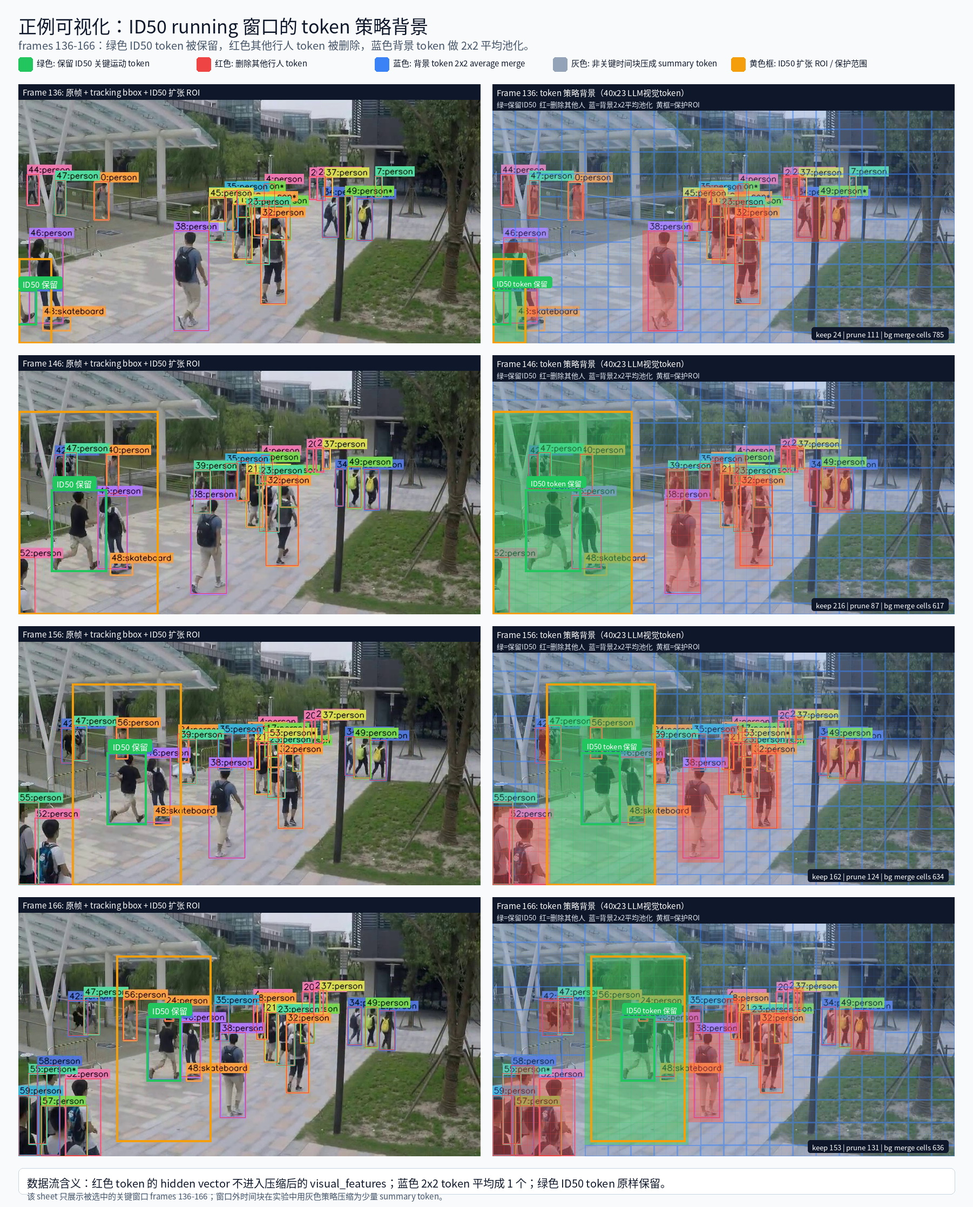
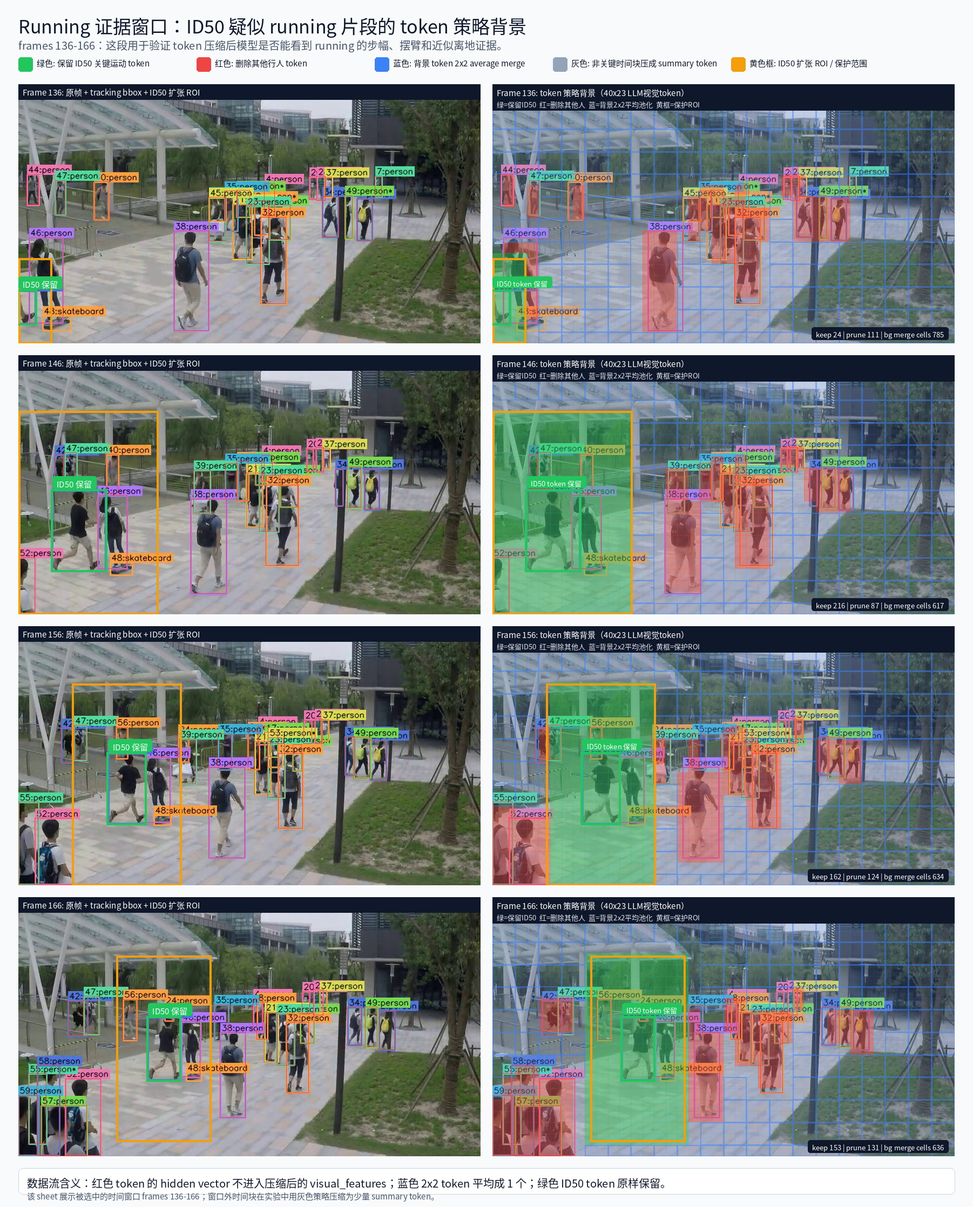
Clarify evidence and control windows

Changed region(s): [[0.0311, 0.0, 0.5283, 0.0617], [0.0622, 0.9875, 0.4661, 1.0]]

diff --git a/REPORT_CN.md b/REPORT_CN.md
@@ -13,9 +13,14 @@
 | 完整视频 baseline | `11960 -> 11960` | `walking` | 不压缩时，多对象和长时间上下文稀释 ID50 的 running 证据。 |
 | 仅空间 ROI 压缩 | `11960 -> 3178` | `walking` | 只压其他人和背景还不够，后续 walking 时间片仍会影响判断。 |
 | 运动聚焦 token 压缩 | `11960 -> 353` | `running` | 保留 frames `136-166` 的 ID50 关键运动 token，压缩非关键 token。 |
-| 慢速窗口负对照 | `11960 -> 497` | `walking` | 聚焦 frames `220-260` 时仍为 walking，说明 running 不是压缩伪影。 |
+| 慢速对照窗口 | `11960 -> 497` | `walking` | 聚焦 frames `220-260` 时仍为 walking，说明 running 不是压缩伪影。 |
 
-**可以证明的 case-level 结论：** 在该视频案例中，同一 Qwen3-VL、同一完整视频、同一 720p 输入下，baseline 输出 `walking`；经过目标感知 + 运动感知 token 压缩后输出 `running`；慢速窗口负对照仍输出 `walking`。
+**这里的“running 证据窗口”和“慢速对照窗口”是什么意思：**
+
+- **running 证据窗口**指 frames `136-166`。这是同一视频、同一 tracking ID `50` 中最像 running/jogging 的片段，用来验证 token 压缩后模型能否看见步幅、摆臂和近似离地等 running 证据。
+- **慢速对照窗口**指 frames `220-260`。它仍然来自同一视频、同一 ID50，并使用同样的 token 压缩策略；区别只是这段运动更平稳、更像 walking。它的作用是排除“只要压缩就会让模型说 running”的可能性。
+
+**可以证明的 case-level 结论：** 在该视频案例中，同一 Qwen3-VL、同一完整视频、同一 720p 输入下，baseline 输出 `walking`；经过目标感知 + 运动感知 token 压缩后输出 `running`；慢速对照窗口仍输出 `walking`。
 
 **不能过度声称：** 这不是大规模 benchmark，不能直接证明所有视频有效，也不能证明已经超过 VAD SOTA。
 
@@ -53,9 +58,9 @@ visual tokens: 13 * 23 * 40 = 11960
 2. **快速位移**：ID50 在 frames `136-166` 中相对自身人体尺度发生明显位移。
 3. **明显摆臂**：上肢摆动幅度更大，和快速步态同步。
 4. **离地或近似离地**：部分帧出现跑步/小跑常见的脚步支撑不稳定或近似离地姿态。
-5. **与慢速窗口对比**：frames `220-260` 中 ID50 更平稳、步幅更小、缺少明显摆臂和离地证据，因此作为 walking 负对照。
+5. **与慢速窗口对比**：frames `220-260` 中 ID50 更平稳、步幅更小、缺少明显摆臂和离地证据，因此作为慢速对照窗口。
 
-**判断依据不是 confidence 数字。** 本报告不把模型自报告 confidence 当作实验指标；核心依据是关键帧段中的步态证据，以及与慢速负对照段的差异。
+**判断依据不是 confidence 数字。** 本报告不把模型自报告 confidence 当作实验指标；核心依据是关键帧段中的步态证据，以及与慢速对照窗口的差异。
 
 ## 5. “目标感知 + 运动感知”如何做
 
@@ -86,12 +91,12 @@ ID50 token       -> 保留
 2. 删除该窗口中的其他行人 token。
 3. 背景 token 做 2x2 average merge。
 4. 非关键时间块压缩为少量 summary token，减少 walking 片段稀释。
-5. 使用 frames `220-260` 作为慢速负对照窗口。
+5. 使用 frames `220-260` 作为慢速对照窗口。
 
 ```text
 关键运动时间窗 136-166  -> 保留 ID50 细节
 非关键时间块            -> 强压缩为 summary token
-慢速对照窗口 220-260     -> 验证不是压缩伪影
+慢速对照窗口 220-260     -> 验证 running 不是压缩伪影
 ```
 
 ### 5.3 合并后的实际策略
@@ -160,7 +165,7 @@ new_feature_j = mean(original_features[group_j])
 3. 重新对齐或重建 `position_ids`，保证 LLM 接收到的是长度更短但位置一致的视觉序列；
 4. 文本 prompt 不变，变化的是送入 LLM 的视觉 token 序列。
 
-最终该正例设置中，视觉 token 从 `11960` 压到 `353`，输入 token 从 `12156` 压到 `549`。这会显著提高 ID50 关键运动 token 在视觉序列中的比例，使模型更容易基于步幅、摆臂和近似离地姿态判断 `running`。
+最终在 running 证据窗口设置中，视觉 token 从 `11960` 压到 `353`，输入 token 从 `12156` 压到 `549`。这会显著提高 ID50 关键运动 token 在视觉序列中的比例，使模型更容易基于步幅、摆臂和近似离地姿态判断 `running`。
 
 ## 7. 实验结果
 
@@ -169,37 +174,37 @@ new_feature_j = mean(original_features[group_j])
 | 完整视频 baseline，不压缩 | `11960 -> 11960` | `12156 -> 12156` | `walking` | 模型没有稳定捕捉快速步幅、强摆臂和离地证据。 |
 | 仅空间 ROI-aware 压缩 | `11960 -> 3178` | `12156 -> 3374` | `walking` | 目标空间区域保留，但完整时间轴中的 walking 片段仍稀释判断。 |
 | 运动聚焦压缩，frames `136-166` | `11960 -> 353` | `12156 -> 549` | `running` | 关键窗口中可见快速步幅、明显摆臂和离地/近似离地姿态。 |
-| 负对照，frames `220-260` | `11960 -> 497` | `12156 -> 693` | `walking` | 后段步态平稳，缺少 running 所需的快速步幅和离地证据。 |
+| 慢速对照窗口，frames `220-260` | `11960 -> 497` | `12156 -> 693` | `walking` | 后段步态平稳，缺少 running 所需的快速步幅和离地证据。 |
 
-## 8. 正例可视化：frames 136-166
+## 8. Running 证据窗口可视化：frames 136-166
 
 下图左侧是原始 tracking 可视化，右侧是在同一帧上叠加的 token 策略背景。右侧每个彩色小格对应一个 40x23 LLM 视觉 token cell：绿色表示 ID50 token 保留；红色表示其他行人 token 删除；蓝色表示背景 token 进入 2x2 average merge；黄色框表示 ID50 扩张 ROI。该窗口中 ID50 呈现更强步幅、更明显摆臂和近似离地姿态。
 
-![正例可视化：保留 frames 136-166 的 ID50 关键运动 token。](assets/id50_running_focus_sheet.jpg)
+![Running 证据窗口可视化：保留 frames 136-166 的 ID50 关键运动 token。](assets/id50_running_focus_sheet.jpg)
 
-*正例可视化：保留 frames 136-166 的 ID50 关键运动 token。*
+*Running 证据窗口可视化：保留 frames 136-166 的 ID50 关键运动 token。*
 
 <video controls preload="metadata" src="assets/id50_running_focus_overlay.mp4"></video>
 
-*正例 overlay 视频：frames 136-166，运动聚焦 token 压缩后模型输出 running。*
+*Running 证据窗口 overlay 视频：frames 136-166，运动聚焦 token 压缩后模型输出 running。*
 
-## 9. 负对照可视化：frames 220-260
+## 9. 慢速对照窗口可视化：frames 220-260
 
-负对照图使用同样的 token 策略背景画法：绿色仍然保留 ID50 token，红色仍然删除其他行人 token，蓝色仍然对背景 token 做 2x2 average merge。区别只在于聚焦窗口换成 frames `220-260` 的慢速片段。模型仍输出 `walking`，说明 `running` 不是强压缩本身诱导出来的，而是 frames `136-166` 关键运动窗口中的视觉证据导致的。
+慢速对照窗口使用同样的 token 策略背景画法：绿色仍然保留 ID50 token，红色仍然删除其他行人 token，蓝色仍然对背景 token 做 2x2 average merge。区别只在于聚焦窗口换成 frames `220-260` 的慢速片段。模型仍输出 `walking`，说明 `running` 不是强压缩本身诱导出来的，而是 frames `136-166` 关键运动窗口中的视觉证据导致的。
 
-![负对照可视化：frames 220-260，步态更平稳，输出 walking。](assets/id50_walking_negative_control_sheet.jpg)
+![慢速对照窗口可视化：frames 220-260，步态更平稳，输出 walking。](assets/id50_walking_negative_control_sheet.jpg)
 
-*负对照可视化：frames 220-260，步态更平稳，输出 walking。*
+*慢速对照窗口可视化：frames 220-260，步态更平稳，输出 walking。*
 
 <video controls preload="metadata" src="assets/id50_walking_negative_control_overlay.mp4"></video>
 
-*负对照 overlay 视频：frames 220-260，同样机制下仍输出 walking。*
+*慢速对照窗口 overlay 视频：frames 220-260，同样机制下仍输出 walking。*
 
 ## 10. 时间线可视化
 
-![时间线图：绿色为 running 正例窗口 136-166，黄色为 walking 负对照窗口 220-260。](assets/id50_720p_experiment_timeline.jpg)
+![时间线图：绿色为 running 证据窗口 136-166，黄色为 walking 慢速对照窗口 220-260。](assets/id50_720p_experiment_timeline.jpg)
 
-*时间线图：绿色为 running 正例窗口 136-166，黄色为 walking 负对照窗口 220-260。*
+*时间线图：绿色为 running 证据窗口 136-166，黄色为 walking 慢速对照窗口 220-260。*
 
 ## 11. 复现说明
 
@@ -214,4 +219,4 @@ new_feature_j = mean(original_features[group_j])
 
 ## 12. 最终表述建议
 
-> 在该多对象长视频案例中，Qwen3-VL baseline 在完整 720p 输入上输出 walking。通过目标感知和运动感知 token 压缩，保留 ID50 在 frames 136-166 的关键运动 token，并压缩其他行人、背景和非关键时间块后，同一模型输出 running。负对照窗口 frames 220-260 仍输出 walking，说明 running 判断来自关键步态证据，而不是压缩伪影。
+> 在该多对象长视频案例中，Qwen3-VL baseline 在完整 720p 输入上输出 walking。通过目标感知和运动感知 token 压缩，保留 ID50 在 frames 136-166 的关键运动 token，并压缩其他行人、背景和非关键时间块后，同一模型输出 running。慢速对照窗口 frames 220-260 仍输出 walking，说明 running 判断来自关键步态证据，而不是压缩伪影。
